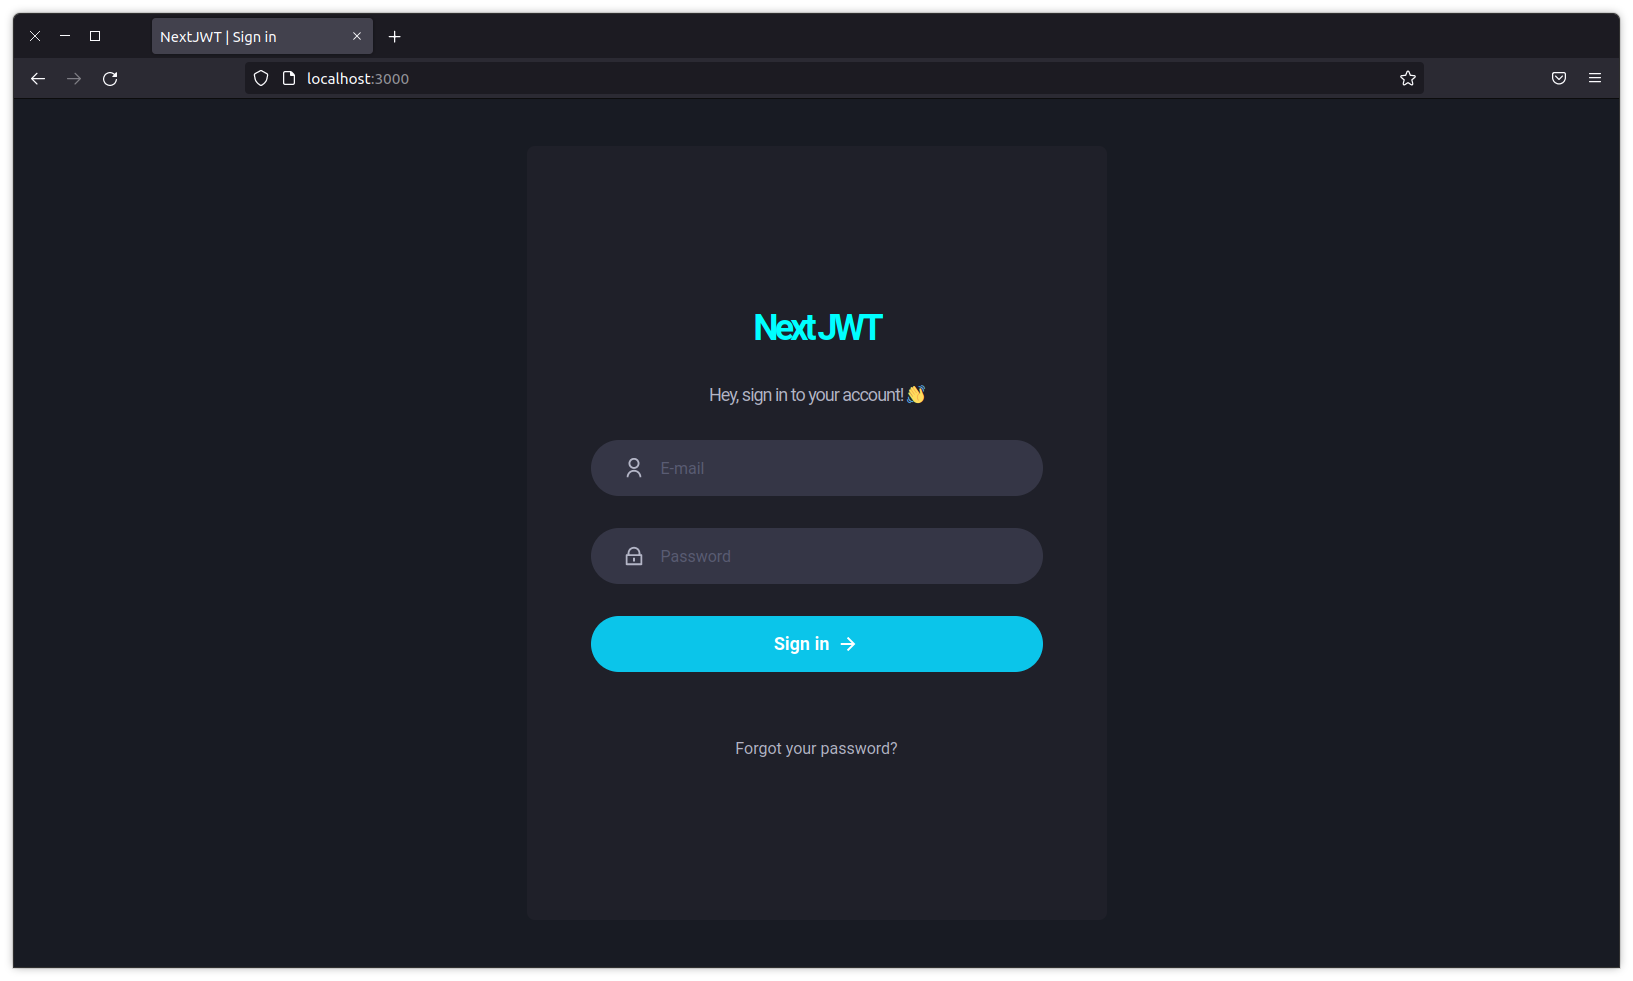
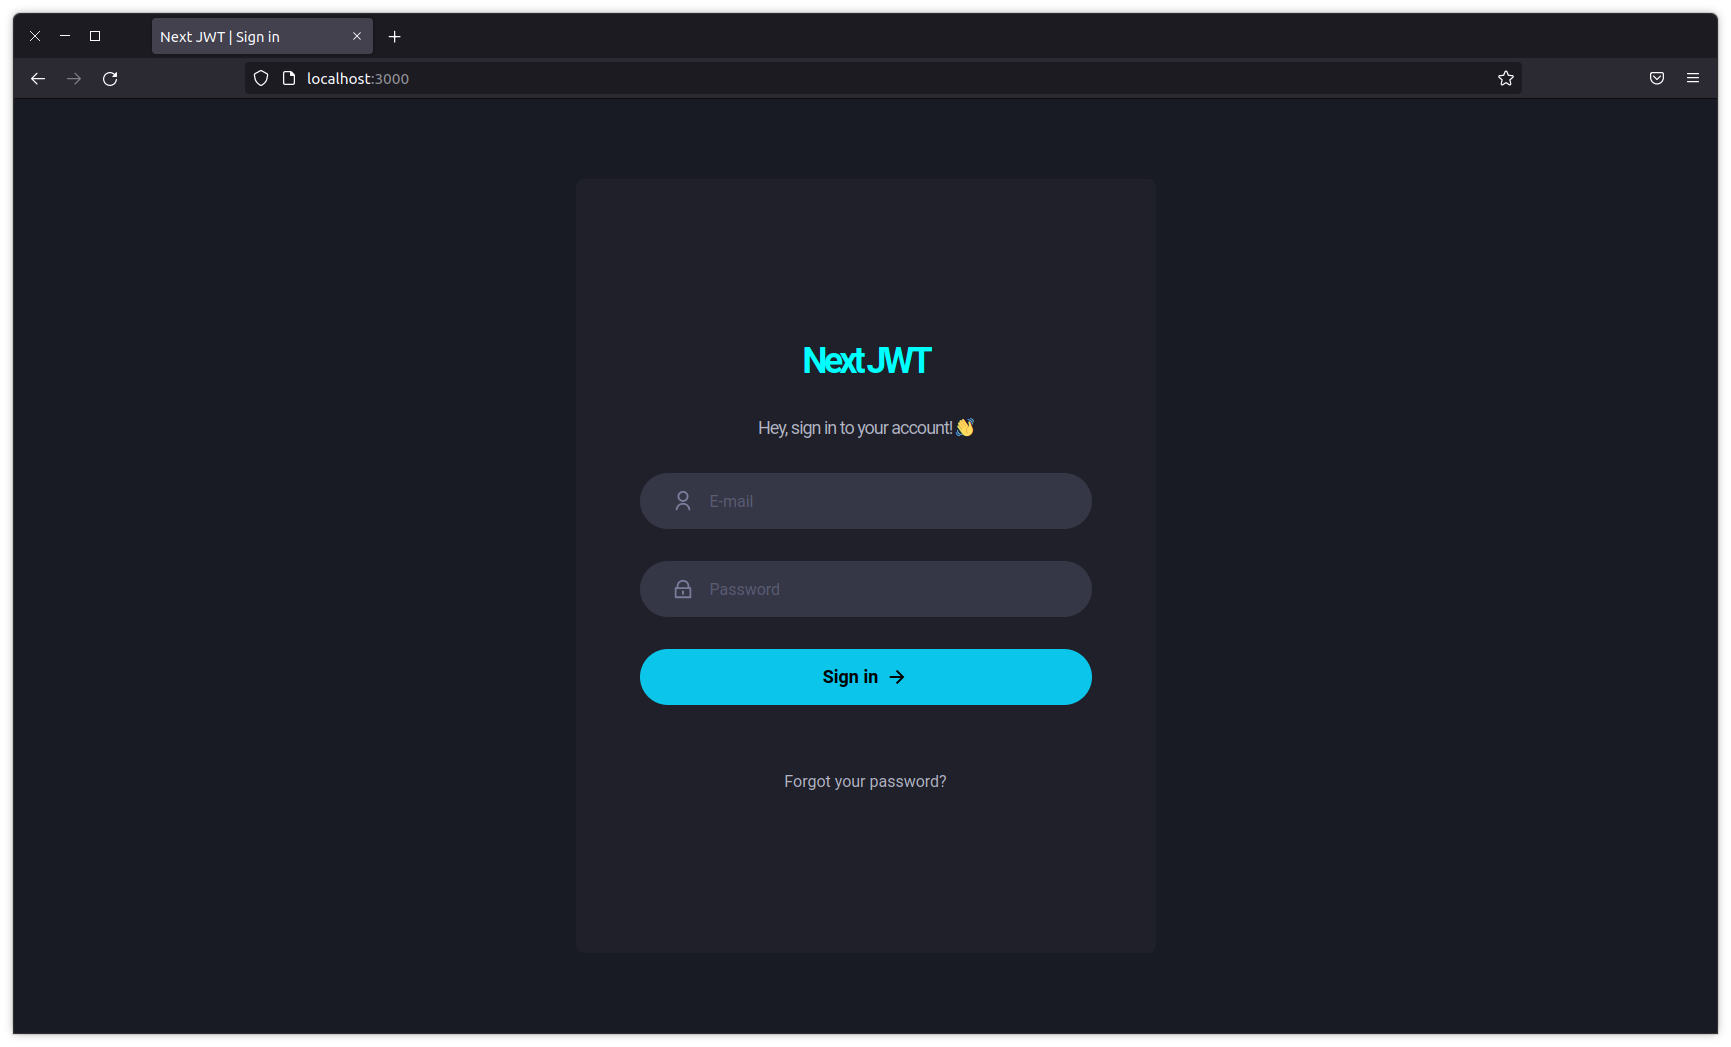
chore: README images

diff --git a/src/pages/metrics.tsx b/src/pages/metrics.tsx
@@ -1,6 +1,7 @@
 import { Flex, Heading, Box, Text, Button, Icon } from '@chakra-ui/react'
 import Link from 'next/link'
 import { RiArrowLeftLine } from 'react-icons/ri'
+import Head from 'next/head'
 
 import { Header } from '../components/Header'
 import { serverSideApi } from '../services/api/serverSide'
@@ -9,6 +10,10 @@ import { withSSRAuth } from '../utils/withSSRAuth'
 export default function Metrics() {
   return (
     <Flex flex="1" flexDirection="column">
+      <Head>
+        <title>Next JWT | Metrics</title>
+      </Head>
+
       <Header />
 
       <Flex mt="8" flexDirection="column" alignItems="center">

diff --git a/src/pages/dashboard.tsx b/src/pages/dashboard.tsx
@@ -9,6 +9,7 @@ import {
 } from '@chakra-ui/react'
 import Link from 'next/link'
 import { RiBarChartHorizontalLine } from 'react-icons/ri'
+import Head from 'next/head'
 
 import { Can } from '../components/Can'
 import { serverSideApi } from '../services/api/serverSide'
@@ -21,6 +22,10 @@ export default function Dashboard() {
 
   return (
     <Flex flex="1" flexDirection="column">
+      <Head>
+        <title>Next JWT | Dashboard</title>
+      </Head>
+
       <Header />
 
       <Flex mt="8" flexDirection="column" alignItems="center">

diff --git a/src/components/Form/Container.tsx b/src/components/Form/Container.tsx
@@ -1,4 +1,3 @@
-import Head from 'next/head'
 import { Flex } from '@chakra-ui/react'
 
 interface IContainerProps {
@@ -8,9 +7,6 @@ interface IContainerProps {
 export function Container({ children }: IContainerProps) {
   return (
     <Flex w={'100vw'} h={'100vh'} align={'center'} justify={'center'}>
-      <Head>
-        <title>NextJWT | Sign in</title>
-      </Head>
       {children}
     </Flex>
   )

diff --git a/src/components/Form/Heading.tsx b/src/components/Form/Heading.tsx
@@ -1,8 +1,13 @@
 import { Flex, Heading as ChakraHeading, Text } from '@chakra-ui/react'
+import Head from 'next/head'
 
 export function Heading() {
   return (
     <Flex align="center" justify="center" direction="column">
+      <Head>
+        <title>Next JWT | Sign in</title>
+      </Head>
+
       <ChakraHeading letterSpacing={-4} color="cyan">
         Next JWT
       </ChakraHeading>

diff --git a/README.md b/README.md
@@ -20,6 +20,8 @@
 
 <div align="center">
   <img src="github/images/nextjwt-signin.png" alt="Sign In">    
+  <img src="github/images/nextjwt-dashboard.png" alt="Sign In">    
+  <img src="github/images/nextjwt-metrics.png" alt="Sign In">    
 </div>
 
 ## Sobre o projeto
@@ -35,6 +37,8 @@ As principais tecnologias utilizadas na construção deste projeto foram:
 * [Next.js](https://nextjs.org/)
 * [Chakra UI](https://chakra-ui.com/guides/getting-started/nextjs-guide)
 * [JWT](https://jwt.io/)
+* [Axios](https://axios-http.com/docs/intro)
+* [Nookies](https://github.com/maticzav/nookies)
 
 ## Instalação e utilização
 
